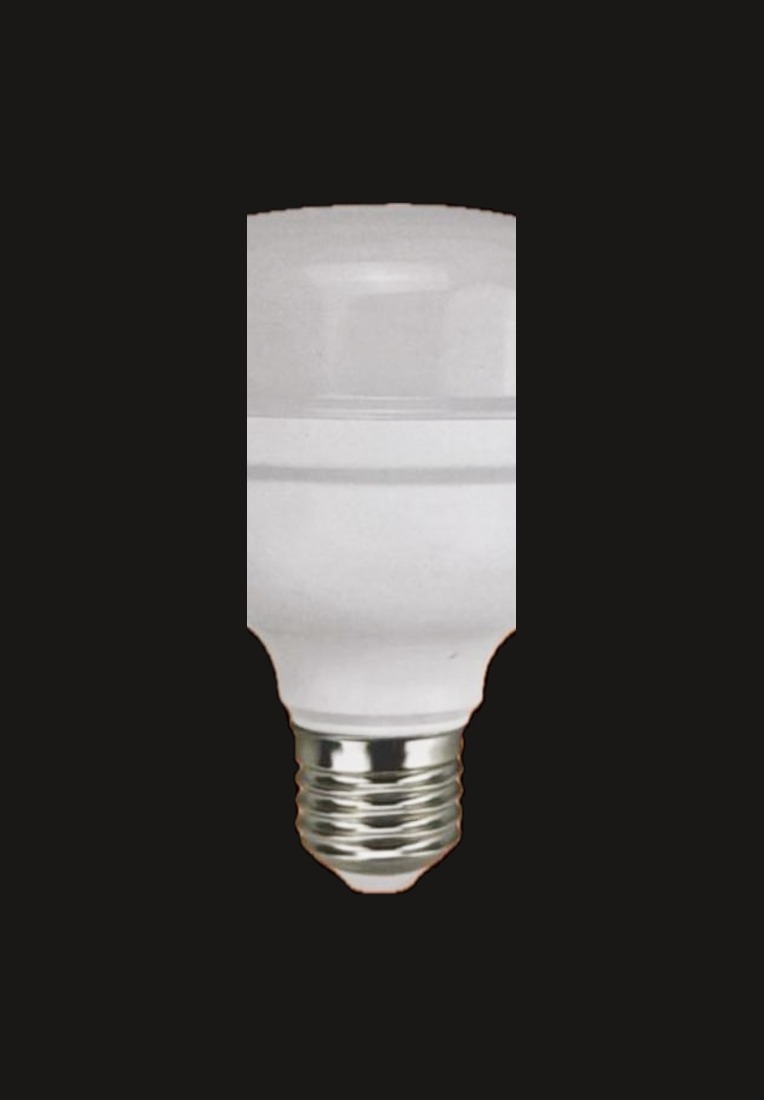
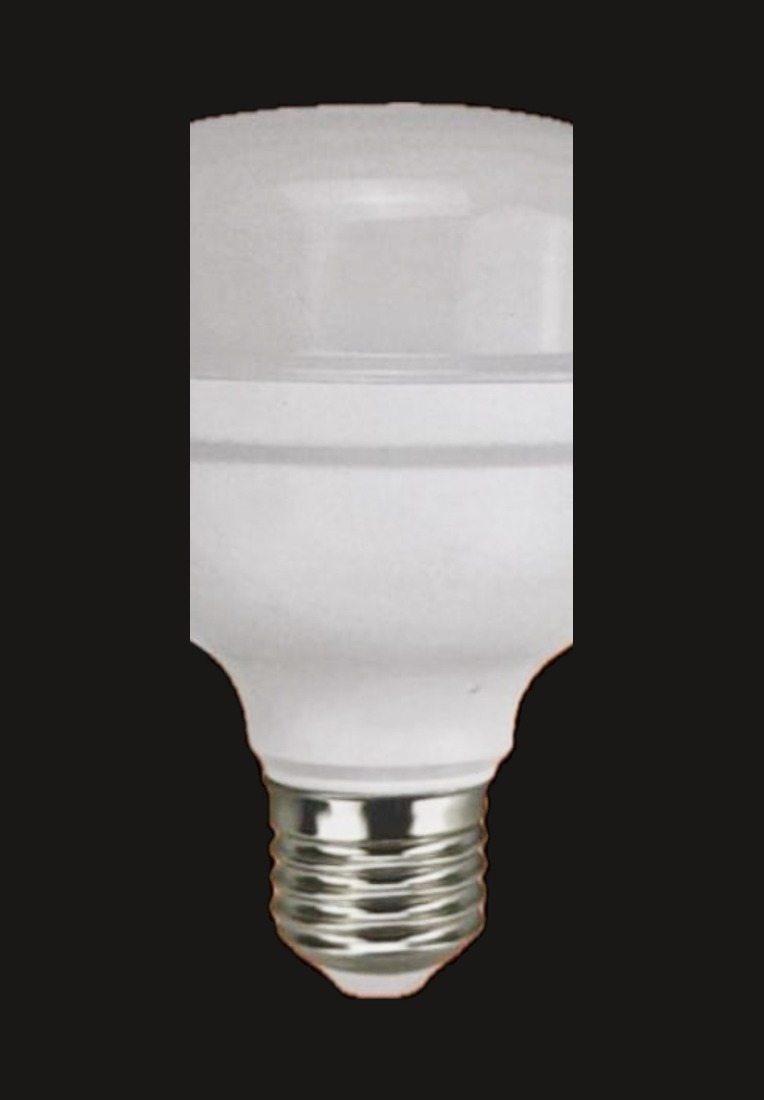
Fix alta potencia bulb crop with full dome and sides visible
Rebuild the Serie T studio shot from the original catalog photo with
wider horizontal bounds for the T-shaped dome and taller vertical scaling
so the full bulb fits without clipping top or sides. Bump cache to v=8.

Changed region(s): [[0.2408, 0.0927, 0.7526, 0.9273], [0.4817, 0.2473, 0.5118, 0.2782]]

diff --git a/megawatt/productos.html b/megawatt/productos.html
@@ -17,7 +17,7 @@
   <link rel="preconnect" href="https://fonts.gstatic.com" crossorigin>
   <link href="https://fonts.googleapis.com/css2?family=Archivo+Black&family=Barlow+Condensed:wght@500;600;700&family=Manrope:wght@400;500;600;700;800&display=swap" rel="stylesheet">
   <link rel="stylesheet" href="/assets/css/brand-nav.css">
-  <link rel="stylesheet" href="assets/css/shared.css?v=skbt-v7">
+  <link rel="stylesheet" href="assets/css/shared.css?v=skbt-v8">
 </head>
 <body class="page-catalog">
 

diff --git a/megawatt/index.html b/megawatt/index.html
@@ -16,7 +16,7 @@
   <link rel="preconnect" href="https://fonts.gstatic.com" crossorigin>
   <link href="https://fonts.googleapis.com/css2?family=Archivo+Black&family=Barlow+Condensed:wght@500;600;700&family=Manrope:wght@400;500;600;700;800&display=swap" rel="stylesheet">
   <link rel="stylesheet" href="/assets/css/brand-nav.css">
-  <link rel="stylesheet" href="assets/css/shared.css?v=skbt-v7">
+  <link rel="stylesheet" href="assets/css/shared.css?v=skbt-v8">
 </head>
 <body>
 

diff --git a/megawatt/assets/js/products.js b/megawatt/assets/js/products.js
@@ -11,7 +11,7 @@ const LINEA = {
 
 const GROUP_STUDIO = {
   skba: 'catalog/bombillo-smd.jpeg',
-  skbt: 'catalog/bombillo-led-alta-potencia.jpeg?v=7',
+  skbt: 'catalog/bombillo-led-alta-potencia.jpeg?v=8',
   skbta: 'catalog/bombillo-industrial.jpeg',
   sknm04: 'catalog/emergencia.jpeg',
   skpl2401: 'catalog/street-light.jpeg',

diff --git a/megawatt/assets/css/shared.css b/megawatt/assets/css/shared.css
@@ -916,7 +916,7 @@ a { color: inherit; }
 .featured-track .featured-photo.is-studio img {
   object-fit: contain;
   object-position: center;
-  padding: 8%;
+  padding: 6%;
 }
 
 .featured-track .p-body {
